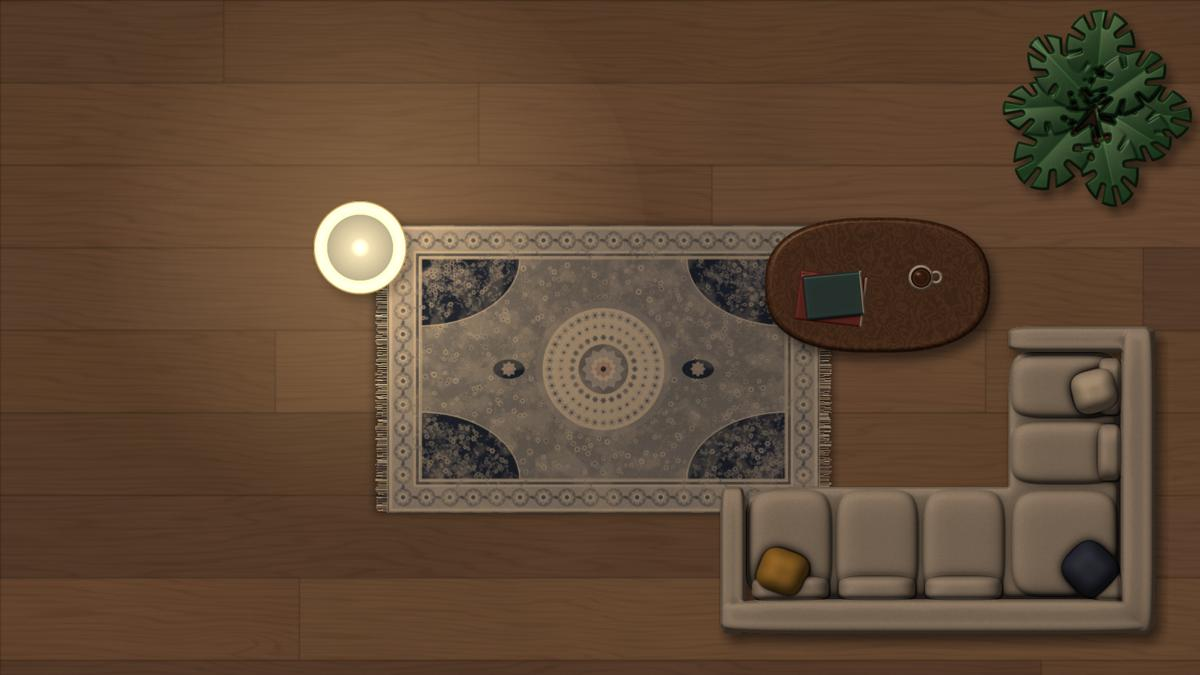
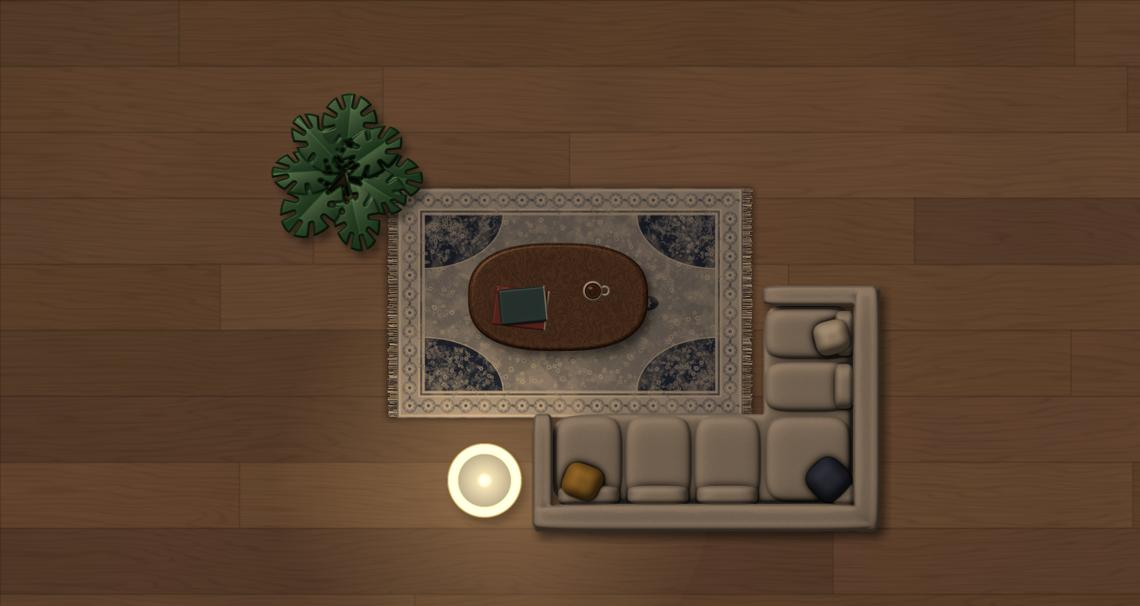
Draw furniture after it is shown; furnish around the rug
Pieces presented their layered bitmap from OnHandleCreated, before the
window was shown, and Windows reset them to empty on show. Furniture,
found items and rugs now (re)draw in OnShown. The default room is laid
out around the main rug, and rooms saved with the old corner layout are
rearranged once.

Claude-Session: https://claude.ai/code/session_01A9RCVWvwtDWqNwdG9ad8Q7

diff --git a/rug/Rug.cs b/rug/Rug.cs
@@ -19,7 +19,7 @@ namespace WindowsRug
 {
     public static class App
     {
-        public const string Version = "1.4.1";
+        public const string Version = "1.4.2";
 
         public static void Log(Exception ex)
         {
@@ -1566,7 +1566,8 @@ namespace WindowsRug
             Present(buf, (int)ox, (int)oy, size, size);
         }
 
-        protected override void OnHandleCreated(EventArgs e) { base.OnHandleCreated(e); Redraw(); }
+        // Drawn once the window is showing; drawing earlier is undone when Windows shows it.
+        protected override void OnShown(EventArgs e) { base.OnShown(e); Redraw(); }
 
         protected override void OnMouseDown(MouseEventArgs e)
         {
@@ -1726,7 +1727,7 @@ namespace WindowsRug
                     it.Owner = owner;
                     if (owner != null) owner.ItemsChanged();
                 }
-                if (owner == null && it.Form == null) { it.Form = new ItemForm(this, it); it.Form.Show(); Restack(); }
+                if (owner == null && it.Form == null) { it.Form = new ItemForm(this, it); it.Form.Show(); it.Form.Redraw(); Restack(); }
                 else if (owner != null && it.Form != null) { it.Form.Close(); it.Form = null; }
             }
         }
@@ -1837,16 +1838,29 @@ namespace WindowsRug
         readonly Dictionary<FurnitureForm, GlowForm> glows = new Dictionary<FurnitureForm, GlowForm>();
         string FurnitureFile { get { return Path.Combine(AppData, "furniture.txt"); } }
 
-        // Where each piece goes in a freshly furnished room (bottom-right corner).
-        static PointF DefaultSpot(string kind)
+        // A furnished room arranged around the main rug: the coffee table in the
+        // middle of the rug, the corner sofa wrapped round its bottom-right corner,
+        // the lamp beside the sofa's end and the plant by the rug's far corner.
+        PointF DefaultSpot(string kind)
         {
             var a = Screen.PrimaryScreen.WorkingArea;
             float k = Math.Max(0.7f, Math.Min(1.6f, a.Height / 1040f));
-            float sx = a.Right - 310 * k, sy = a.Bottom - 225 * k;
-            if (kind == "sofa") return new PointF(sx, sy);
-            if (kind == "table") return new PointF(sx - 70 * k, sy - 270 * k);
-            if (kind == "lamp") return new PointF(sx - 360 * k, sy + 120 * k);
-            return new PointF(a.Right - 130 * k, a.Top + 140 * k);
+            float cx = a.Left + a.Width / 2f, cy = a.Top + a.Height / 2f, hw = 300, hh = 190;
+            if (Rugs.Count > 0) { var c = Rugs[0].Center; cx = c.X; cy = c.Y; var h = Rugs[0].HalfSize; hw = h.Width; hh = h.Height; }
+            float sofaX = cx + hw * 0.55f + 60 * k, sofaY = cy + hh * 0.55f + 70 * k;
+            PointF p;
+            if (kind == "table") p = new PointF(cx - 20 * k, cy - 10 * k);
+            else if (kind == "sofa") p = new PointF(sofaX, sofaY);
+            else if (kind == "lamp") p = new PointF(sofaX - 300 * k - 70 * k, sofaY + 120 * k);
+            else p = new PointF(cx - hw - 70 * k, cy - hh - 30 * k);
+            // Keep every piece on screen.
+            return new PointF(Math.Max(a.Left + 80, Math.Min(a.Right - 80, p.X)), Math.Max(a.Top + 80, Math.Min(a.Bottom - 80, p.Y)));
+        }
+
+        static string FirstLine(string file)
+        {
+            var lines = File.ReadAllLines(file);
+            return lines.Length > 0 ? lines[0] : "";
         }
 
         public bool FurnitureFilesPresent
@@ -1877,9 +1891,11 @@ namespace WindowsRug
         void LoadFurniture()
         {
             var inv = CultureInfo.InvariantCulture;
-            if (!File.Exists(FurnitureFile))
+            bool oldLayout = false;
+            try { oldLayout = File.Exists(FurnitureFile) && FirstLine(FurnitureFile) != "layout2"; } catch { }
+            if (!File.Exists(FurnitureFile) || oldLayout)
             {
-                // First time: a corner sofa at the bottom right with a table, a lamp and a plant.
+                // First time (or the old corner layout): furnish around the rug.
                 foreach (var kind in FurnitureForm.Kinds) { var p = DefaultSpot(kind); AddFurniture(kind, p.X, p.Y, 0, kind == "lamp"); }
                 SaveFurniture();
                 return;
@@ -1888,6 +1904,7 @@ namespace WindowsRug
             {
                 foreach (var line in File.ReadAllLines(FurnitureFile))
                 {
+                    if (line == "layout2") continue;
                     var f = line.Split(' ');
                     if (f.Length != 5) continue;
                     float fx = float.Parse(f[1], inv), fy = float.Parse(f[2], inv);
@@ -1902,7 +1919,7 @@ namespace WindowsRug
         public void SaveFurniture()
         {
             var inv = CultureInfo.InvariantCulture;
-            var lines = new List<string>();
+            var lines = new List<string> { "layout2" };
             foreach (var f in Furniture) { float fx = f.X, fy = f.Y; lines.Add(f.Kind + " " + fx.ToString("0", inv) + " " + fy.ToString("0", inv) + " " + f.Rot + " " + (f.On ? "1" : "0")); }
             try { File.WriteAllLines(FurnitureFile, lines.ToArray()); } catch { }
         }
@@ -1912,6 +1929,7 @@ namespace WindowsRug
             var f = new FurnitureForm(this, kind) { X = x, Y = y, Rot = rot, On = on };
             Furniture.Add(f);
             f.Show();
+            f.Redraw();
             Restack();
             UpdateLights();
             return f;
@@ -2658,7 +2676,8 @@ namespace WindowsRug
 
         public void Toggle() { On = !On; Redraw(); m.FurnitureChanged(this); }
 
-        protected override void OnHandleCreated(EventArgs e) { base.OnHandleCreated(e); Redraw(); }
+        // Drawn once the window is showing; drawing earlier is undone when Windows shows it.
+        protected override void OnShown(EventArgs e) { base.OnShown(e); Redraw(); }
 
         protected override void OnMouseDown(MouseEventArgs e)
         {
@@ -2787,6 +2806,8 @@ namespace WindowsRug
             Render();
             Wake();
         }
+
+        protected override void OnShown(EventArgs e) { base.OnShown(e); Render(); }
 
         // ---- Design ----
         string EffectiveDesign { get { string s = m.IsMainRug(this) ? m.SeasonalDesign : null; return s ?? design; } }
@@ -3056,6 +3077,7 @@ namespace WindowsRug
         }
 
         public PointF Center { get { return new PointF(cloth.CenterX, cloth.CenterY); } }
+        public SizeF HalfSize { get { return new SizeF(cloth.HalfW, cloth.HalfH); } }
 
         public void PokeAt(float x, float y) { cloth.Poke(x, y, 110 * RugScale, 6); Wake(); }
 

diff --git a/.github/release-notes.md b/.github/release-notes.md
@@ -1,15 +1,15 @@
-## Windows Rug v1.4.1
+## Windows Rug v1.4.2
 
-A fix for the living room not showing up.
+The living room now actually shows up, arranged around the rug.
+
+![The living room around the rug](https://raw.githubusercontent.com/justahmmed/windows-rug/main/docs/room.jpg)
 
 ### Fixes
 
-- **Furniture not appearing.** The installer now copies the whole package, so no image folder can be left behind, and it stops with a clear message if anything is missing. If the furniture images are still missing when the rug starts, a notification tells you to run *Install.bat* again.
-- **Reset room.** Right-click the rug → *Room* → *Reset room*, or use the tray icon. Every piece goes back to the bottom-right corner of the screen.
-- **Furniture off-screen** (after unplugging a monitor or changing the resolution) is moved back on screen automatically.
-- **Version in the tray.** Hover over the tray icon to see which version is running.
+- **Furniture was invisible.** Each piece drew itself before its window was shown, and Windows cleared it on show (only the lamp's glow appeared). Furniture and found items now draw after they appear.
+- **A room around the rug.** The coffee table sits in the middle of the rug, the corner sofa wraps around its bottom-right corner, the lamp stands beside the sofa and the plant by the rug's far corner. Rooms saved with the old corner layout are rearranged once, automatically. *Reset room* uses the same arrangement.
 
 ### Install
 
 1. Download **WindowsRug.zip** below and extract it.
-2. Open the extracted folder and double-click **Install.bat** inside it. It replaces any older version.
+2. Open the extracted folder and double-click **Install.bat** inside it.
